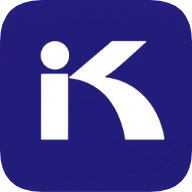
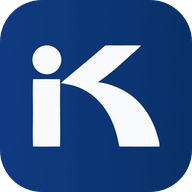
new identity

diff --git a/src/app/globals.css b/src/app/globals.css
@@ -14,9 +14,9 @@
   --ink: 15 23 42;         /* #0F172A */
   --ink-muted: 71 85 105;  /* #475569 */
   --ink-subtle: 100 116 139;
-  --primary: 37 25 168;    /* #2519A8 */
-  --primary-soft: 238 240 254;
-  --primary-solid: 49 32 195;
+  --primary: 15 59 130;    /* #0F3B82 - KOWA Royal Blue */
+  --primary-soft: 238 244 254;
+  --primary-solid: 15 59 130;
   --primary-fg: 255 255 255;
   --accent: 56 189 248;    /* #38BDF8 - Ice Sky accent matching Royal Blue & White brand */
   --accent-fg: 10 50 109;  /* #0A326D */
@@ -24,7 +24,7 @@
   --nav-fg: 15 23 42;
   --nav-muted: 84 98 120;
   --nav-line: 228 232 240;
-  --nav-active: 37 25 168;
+  --nav-active: 15 59 130;
   --nav-active-fg: 255 255 255;
   --nav-hover: 244 246 251;
   color-scheme: light;
@@ -40,10 +40,10 @@
   --ink: 241 245 249;      /* #F1F5F9 - Bright crisp text */
   --ink-muted: 184 196 214;/* #B8C4D6 - Muted readable text */
   --ink-subtle: 148 163 184;/* #94A3B8 */
-  --primary: 152 140 250;  /* #988CFA - Vibrant dark mode primary */
-  --primary-soft: 38 34 82;
-  --primary-solid: 99 78 235; /* #634EEB */
-  --primary-fg: 14 10 46;
+  --primary: 96 165 250;   /* #60A5FA - Vibrant dark mode royal highlight */
+  --primary-soft: 15 35 68;
+  --primary-solid: 15 59 130; /* #0F3B82 */
+  --primary-fg: 255 255 255;
   --accent: 56 189 248;    /* #38BDF8 - Crisp Ice Sky accent */
   --accent-fg: 10 50 109;  /* #0A326D */
   --nav: 12 18 34;         /* #0C1222 */
@@ -51,16 +51,16 @@
   --nav-muted: 170 184 204;
   --nav-line: 30 40 60;
   --nav-active: 255 255 255;
-  --nav-active-fg: 26 20 70;
+  --nav-active-fg: 15 59 130;
   --nav-hover: 22 32 56;
   color-scheme: dark;
 }
 
 @theme {
-  --color-brand: #1F0F8C;
-  --color-brand-dark: #140959;
-  --color-brand-deep: #0B0438;
-  --color-brand-surface: #F4F3FB;
+  --color-brand: #0F3B82;
+  --color-brand-dark: #093168;
+  --color-brand-deep: #061B3B;
+  --color-brand-surface: #F0F4FA;
   --color-brand-accent: #2563EB;
   --color-brand-accent-soft: #EFF6FF;
   --color-brand-accent-hover: #1D4ED8;
@@ -95,10 +95,19 @@
   --font-en: var(--font-ibm-sans), sans-serif;
 
   --shadow-subtle: 0 1px 3px 0 rgba(0, 0, 0, 0.05), 0 1px 2px 0 rgba(0, 0, 0, 0.03);
-  --shadow-elevated: 0 20px 40px -15px rgba(31, 15, 140, 0.08), 0 0 1px 1px rgba(226, 232, 240, 0.8);
+  --shadow-elevated: 0 20px 40px -15px rgba(15, 59, 130, 0.1), 0 0 1px 1px rgba(226, 232, 240, 0.8);
   --shadow-float: 0 24px 48px -12px rgba(15, 23, 42, 0.12);
   --shadow-lime-glow: 0 8px 24px -4px rgba(255, 255, 255, 0.35);
-  --shadow-brand-glow: 0 10px 30px -5px rgba(31, 15, 140, 0.35);
+  --shadow-brand-glow: 0 10px 30px -5px rgba(15, 59, 130, 0.4);
+}
+
+/* Official KOWA Identity Gradient */
+.bg-kowa-gradient {
+  background: linear-gradient(90deg, #0F3B82 0%, #093168 100%);
+}
+
+.bg-kowa-gradient-rtl {
+  background: linear-gradient(270deg, #0F3B82 0%, #093168 100%);
 }
 
 @layer base {
@@ -142,11 +151,11 @@ input[type=range]::-webkit-slider-thumb {
   height: 26px;
   width: 26px;
   border-radius: 50%;
-  background: #1F0F8C;
+  background: #0F3B82;
   cursor: pointer;
   border: 3px solid #FFFFFF;
   -webkit-appearance: none;
-  box-shadow: 0 4px 10px rgba(31, 15, 140, 0.3);
+  box-shadow: 0 4px 10px rgba(15, 59, 130, 0.3);
   transition: transform 0.15s ease;
 }
 

diff --git a/src/components/FareRouteMap.tsx b/src/components/FareRouteMap.tsx
@@ -202,7 +202,7 @@ export const FareRouteMap: React.FC<FareRouteMapProps> = ({
         [serviceArea.north, serviceArea.east]
       );
       serviceAreaLayerRef.current = L.rectangle(bounds, {
-        color: '#634EEB',
+        color: '#0F3B82',
         weight: 1.5,
         opacity: 0.45,
         dashArray: '6 6',
@@ -224,8 +224,8 @@ export const FareRouteMap: React.FC<FareRouteMapProps> = ({
         html:
           variant === 'pickup'
             ? `<div style="position:relative;width:28px;height:28px;display:flex;align-items:center;justify-content:center;">
-                <span style="position:absolute;inset:0;border-radius:9999px;background:rgba(99,78,235,0.28);"></span>
-                <span style="width:16px;height:16px;border-radius:9999px;background:#634EEB;border:3px solid #FFFFFF;box-shadow:0 3px 10px rgba(0,0,0,0.35);"></span>
+                <span style="position:absolute;inset:0;border-radius:9999px;background:rgba(15,59,130,0.28);"></span>
+                <span style="width:16px;height:16px;border-radius:9999px;background:#0F3B82;border:3px solid #FFFFFF;box-shadow:0 3px 10px rgba(0,0,0,0.35);"></span>
               </div>`
             : `<div style="position:relative;width:30px;height:30px;display:flex;align-items:center;justify-content:center;">
                 <span style="position:absolute;inset:0;border-radius:9999px;background:rgba(14,165,233,0.34);"></span>
@@ -315,7 +315,7 @@ export const FareRouteMap: React.FC<FareRouteMapProps> = ({
 
       if (latLngs.length >= 2) {
         L.polyline(latLngs, {
-          color: '#634EEB',
+          color: '#0F3B82',
           weight: 9,
           opacity: 0.3,
           lineCap: 'round',

diff --git a/src/components/DownloadBanner.tsx b/src/components/DownloadBanner.tsx
@@ -131,7 +131,8 @@ export const DownloadBanner: React.FC = () => {
           whileInView={{ opacity: 1, scale: 1, y: 0 }}
           viewport={{ once: true, margin: '-40px' }}
           transition={{ duration: 0.75, ease: [0.16, 1, 0.3, 1] }}
-          className="relative overflow-hidden rounded-[2rem] bg-gradient-to-br from-[#180C76] via-[#1F0F8C] to-[#091233] dark:from-[#180C76] dark:via-[#110852] dark:to-[#060A18] p-6 sm:p-10 lg:p-14 text-white shadow-[0_32px_70px_-20px_rgba(31,15,140,0.48)] border border-white/15"
+          style={{ background: 'linear-gradient(90deg, #0F3B82 0%, #093168 100%)' }}
+          className="relative overflow-hidden rounded-[2rem] p-6 sm:p-10 lg:p-14 text-white shadow-[0_32px_70px_-20px_rgba(15,59,130,0.48)] border border-white/15"
         >
           {/* Subtle atmospheric glow & geometric accents */}
           <div
@@ -212,7 +213,7 @@ export const DownloadBanner: React.FC = () => {
                   <div>
                     <form
                       onSubmit={handleSubmit}
-                      className="rounded-2xl bg-[#070C24]/70 border border-white/15 focus-within:border-white/50 p-1.5 flex flex-col sm:flex-row items-stretch sm:items-center gap-2 transition-colors"
+                      className="rounded-2xl bg-[#06152D]/75 border border-white/15 focus-within:border-white/50 p-1.5 flex flex-col sm:flex-row items-stretch sm:items-center gap-2 transition-colors"
                     >
                       <div
                         className="flex items-center gap-2.5 flex-1 px-3 py-2 sm:py-0 min-w-0"

diff --git a/src/components/FareCalculatorSection.tsx b/src/components/FareCalculatorSection.tsx
@@ -1903,7 +1903,7 @@ const DynamicFareCalculatorView: React.FC<{
               </div>
 
               {/* Right Panel: Interactive Map (unless showMap=false) + Route Metrics & VAT Breakdown */}
-              <div className="lg:col-span-6 bg-gradient-to-br from-[#0E152B] via-[#130C47] to-[#080C18] text-white p-6 sm:p-8 lg:p-10 flex flex-col justify-between gap-5 relative overflow-hidden">
+              <div className="lg:col-span-6 bg-gradient-to-br from-[#0E152B] via-[#093168] to-[#080C18] text-white p-6 sm:p-8 lg:p-10 flex flex-col justify-between gap-5 relative overflow-hidden">
                 <div
                   aria-hidden="true"
                   className="absolute inset-0 opacity-20 pointer-events-none"
@@ -2408,7 +2408,7 @@ const LegacyPreMigrationFareCalculator: React.FC<{ data: FareCalculatorContent }
                 </div>
               </div>
 
-              <div className="lg:col-span-6 bg-gradient-to-br from-[#0E152B] via-[#130C47] to-[#080C18] text-white p-6 sm:p-8 lg:p-10 flex flex-col justify-between gap-6">
+              <div className="lg:col-span-6 bg-gradient-to-br from-[#0E152B] via-[#093168] to-[#080C18] text-white p-6 sm:p-8 lg:p-10 flex flex-col justify-between gap-6">
                 <div className="flex items-center justify-between gap-3 flex-wrap">
                   <div className="inline-flex items-center gap-2 px-3 py-1.5 rounded-full bg-white/10 border border-white/15 text-xs font-bold">
                     <span className="w-2 h-2 rounded-full bg-white animate-ping" />

diff --git a/src/components/HeroSection.tsx b/src/components/HeroSection.tsx
@@ -131,7 +131,7 @@ export const HeroSection: React.FC = () => {
               : 'bg-gradient-to-r from-[#0A0F1D]/95 via-[#0A0F1D]/65 to-transparent'
           }`}
         />
-        <div className="absolute inset-0 bg-[radial-gradient(ellipse_at_top_right,_rgba(31,15,140,0.42),transparent_65%)]" />
+        <div className="absolute inset-0 bg-[radial-gradient(ellipse_at_top_right,_rgba(15,59,130,0.45),transparent_65%)]" />
       </motion.div>
 
       {showAmbient &&
@@ -169,8 +169,8 @@ export const HeroSection: React.FC = () => {
         >
           <defs>
             <linearGradient id="kowaStreamGrad" x1="0" y1="1" x2="1" y2="0">
-              <stop offset="0%" stopColor="#1F0F8C" stopOpacity="0.6" />
-              <stop offset="50%" stopColor="#634EEB" stopOpacity="0.9" />
+              <stop offset="0%" stopColor="#0F3B82" stopOpacity="0.7" />
+              <stop offset="50%" stopColor="#2563EB" stopOpacity="0.9" />
               <stop offset="100%" stopColor="#FFFFFF" stopOpacity="1" />
             </linearGradient>
             <filter id="kowaGlow" x="-20%" y="-20%" width="140%" height="140%">

diff --git a/src/components/FAQSection.tsx b/src/components/FAQSection.tsx
@@ -181,7 +181,7 @@ export const FAQSection: React.FC = () => {
               transition={{ duration: 0.8, delay: 0.2, ease: [0.16, 1, 0.3, 1] }}
               className="lg:col-span-5"
             >
-              <div className="bg-gradient-to-br from-brand via-brand-dark to-neutral-900 dark:from-[#1F0F8C] dark:via-[#140959] dark:to-[#070B14] rounded-3xl p-8 sm:p-10 text-white shadow-elevated relative overflow-hidden flex flex-col justify-between">
+              <div className="bg-gradient-to-br from-brand via-brand-dark to-neutral-900 dark:from-[#0F3B82] dark:via-[#093168] dark:to-[#070B14] rounded-3xl p-8 sm:p-10 text-white shadow-elevated relative overflow-hidden flex flex-col justify-between">
                 <div className="absolute -top-16 -right-16 w-48 h-48 bg-white/15 rounded-full blur-2xl pointer-events-none" />
                 <div className="absolute -bottom-16 -left-16 w-48 h-48 bg-sky-400/15 rounded-full blur-2xl pointer-events-none" />
 

diff --git a/src/components/AppExperience.tsx b/src/components/AppExperience.tsx
@@ -55,7 +55,7 @@ export const AppExperience: React.FC = () => {
                 ) : (
                   <div
                     aria-hidden="true"
-                    className="w-full h-full bg-gradient-to-br from-[#0F172A] via-[#1A1354] to-[#111827] flex items-center justify-center"
+                    className="w-full h-full bg-gradient-to-br from-[#0F172A] via-[#093168] to-[#111827] flex items-center justify-center"
                   >
                     <Smartphone className="w-12 h-12 text-white/80" />
                   </div>

diff --git a/src/context/WebsiteConfigContext.tsx b/src/context/WebsiteConfigContext.tsx
@@ -27,13 +27,13 @@ export const DEFAULT_FEATURE_FLAGS: WebsiteFeatureFlags = {
 };
 
 export const DEFAULT_THEME_TOKENS: WebsiteThemeTokens = {
-  brandPrimary: '#1F0F8C',
-  brandDark: '#140959',
+  brandPrimary: '#0F3B82',
+  brandDark: '#093168',
   brandLimeAccent: '#38BDF8',
   darkCanvas: '#0A0F1D',
   darkCard: '#10182C',
   darkElevated: '#17223C',
-  darkPrimarySolid: '#634EEB',
+  darkPrimarySolid: '#0F3B82',
 };
 
 export const DEFAULT_SITE_SETTINGS: WebsiteSiteSettings = {

diff --git a/src/components/QrCodeDisplay.tsx b/src/components/QrCodeDisplay.tsx
@@ -38,7 +38,7 @@ export function QrCodeDisplay({
       width: size * 2,
       margin: 1,
       color: {
-        dark: '#140959',
+        dark: '#093168',
         light: '#FFFFFF',
       },
     })
